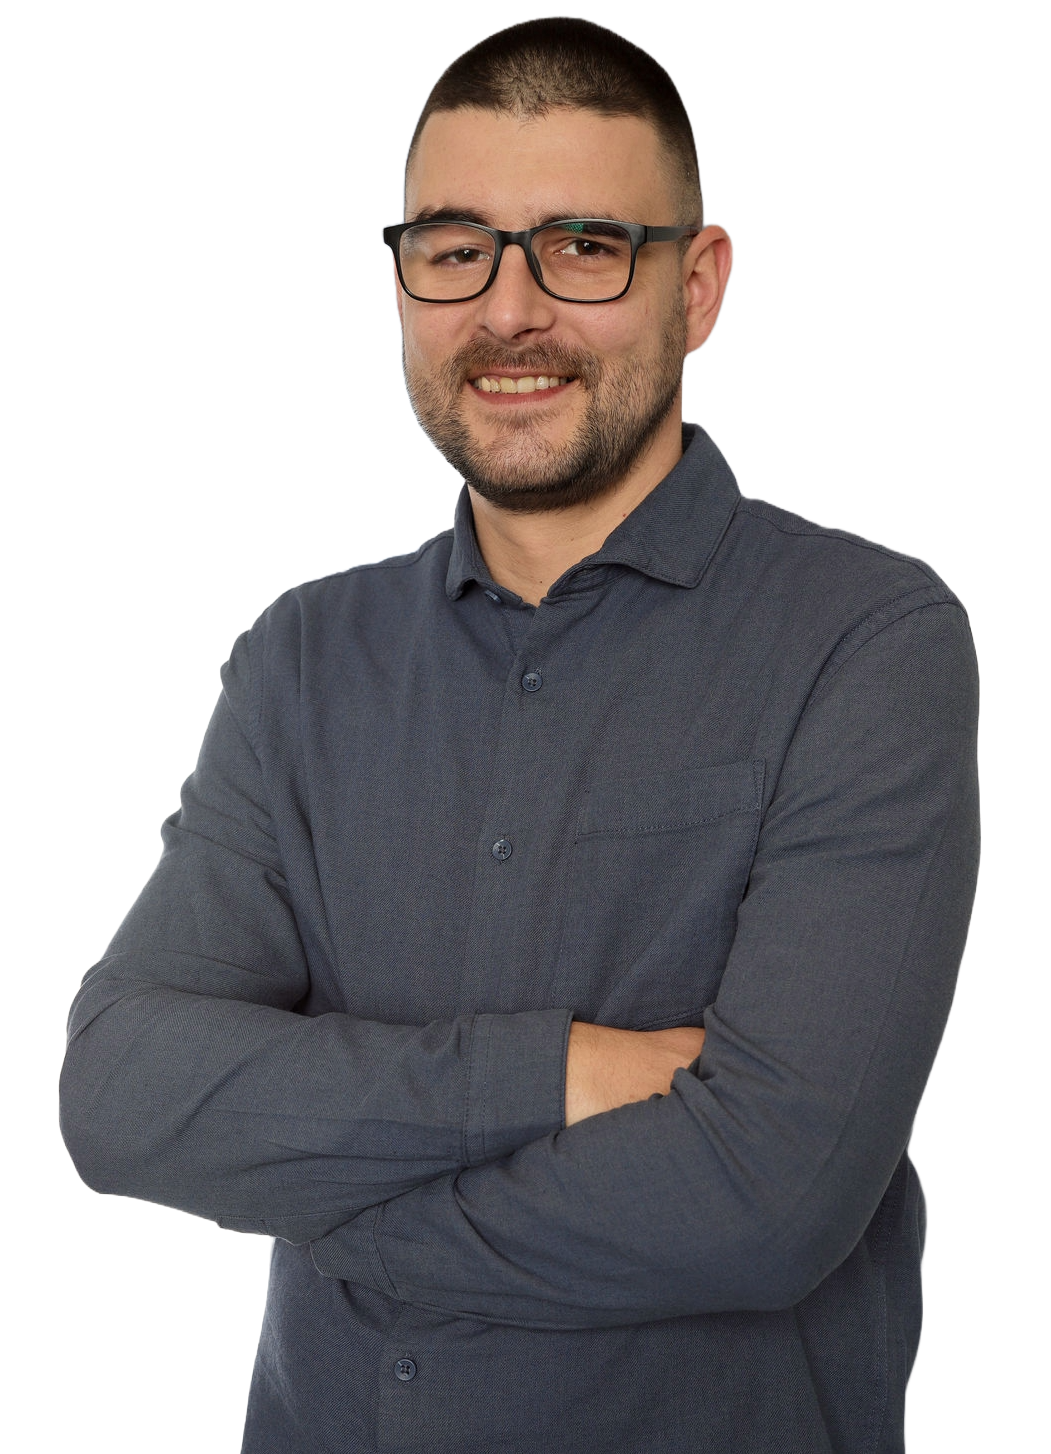
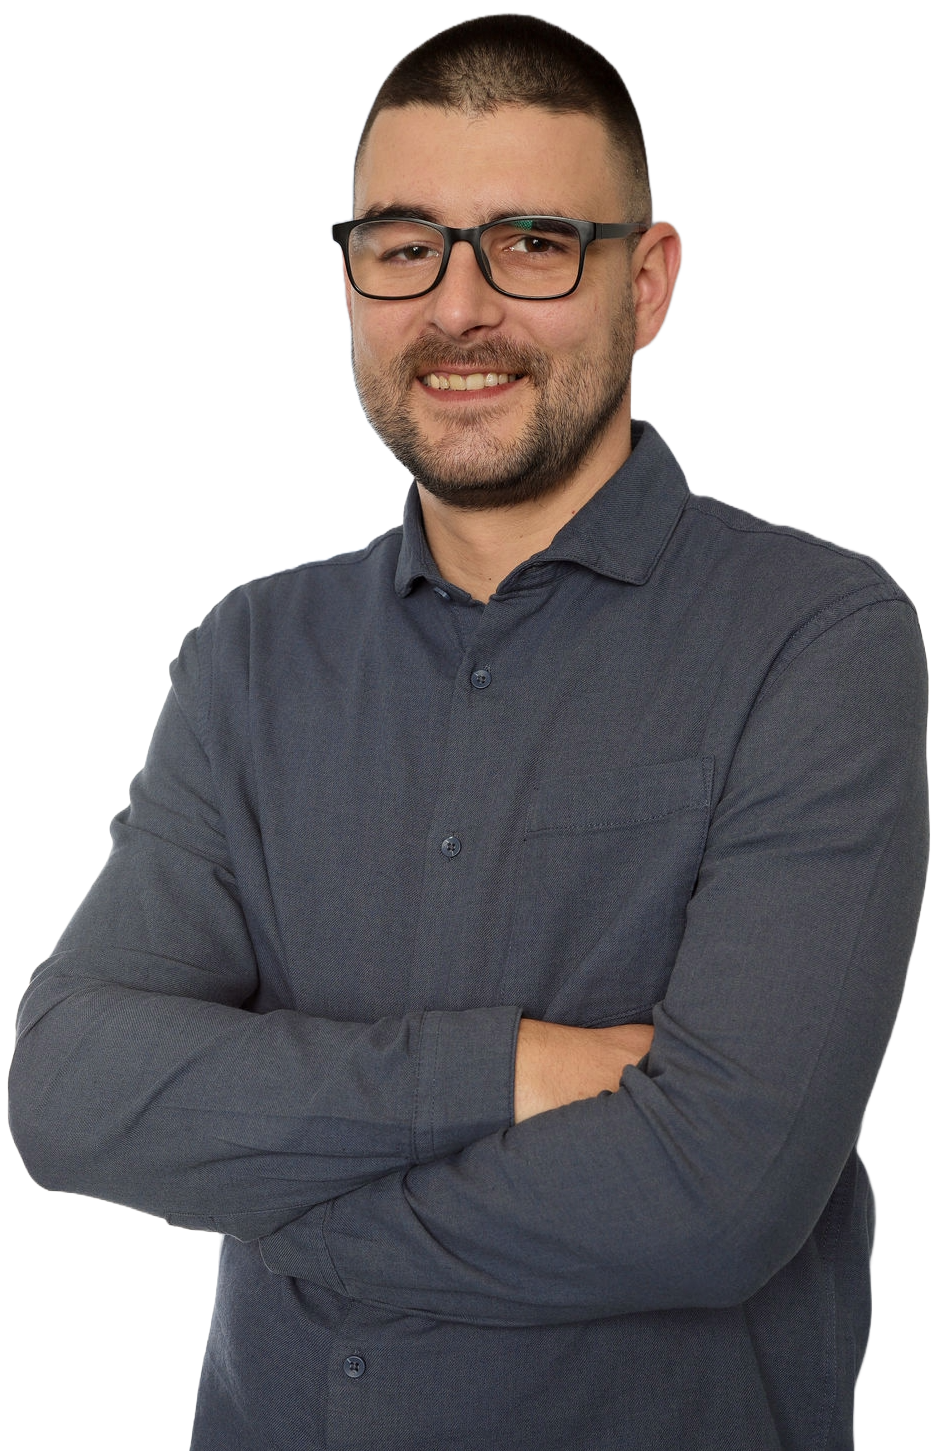
css fine tuning and removed pokedex

diff --git a/src/app/front-page/front-page.component.scss b/src/app/front-page/front-page.component.scss
@@ -229,13 +229,19 @@
 @media screen and (min-width: 1600px) {
     .front-page {
 
-        background-position-x: 10% !important;
+        background-position-x: 7% !important;
         .frontpage-image {
             .profile-image {
                 height: auto;
                 width: 80%;
             }
         }
+
+        .footer-shape {
+            bottom: -40px;
+            height: 25vh;
+        }
+        
 
         .front-page-headline {
             .button {
@@ -279,7 +285,7 @@
 @media screen and (min-width: 2500px) {
     .front-page {
 
-        background-position-x: 15% !important;
+        background-position-x: 10% !important;
         .frontpage-image {
             width: 50%;
         }

diff --git a/src/app/projects/projects.component.html b/src/app/projects/projects.component.html
@@ -67,7 +67,7 @@
     </div>
 
 
-    <div class="forth-project" data-aos="fade-right" data-aos-duration="1000">
+    <!-- <div class="forth-project" data-aos="fade-right" data-aos-duration="1000">
         <div class="project-image">
             <a href="https://pokedex.nikola-vujovic.de/index.html" target="_blank" rel="noopener noreferrer">
                 <img src="/assets/images/Projects/Pokedex.png" alt="pokedex">
@@ -86,7 +86,7 @@
                 </a>
             </div>
         </div>
-    </div>
+    </div> -->
 
     <img src="/assets/images/Dark-blue-shape-projects.png" class="dark-shape">
     <img src="/assets/images/Light-blue-shape-projects.png" class="light-shape">
